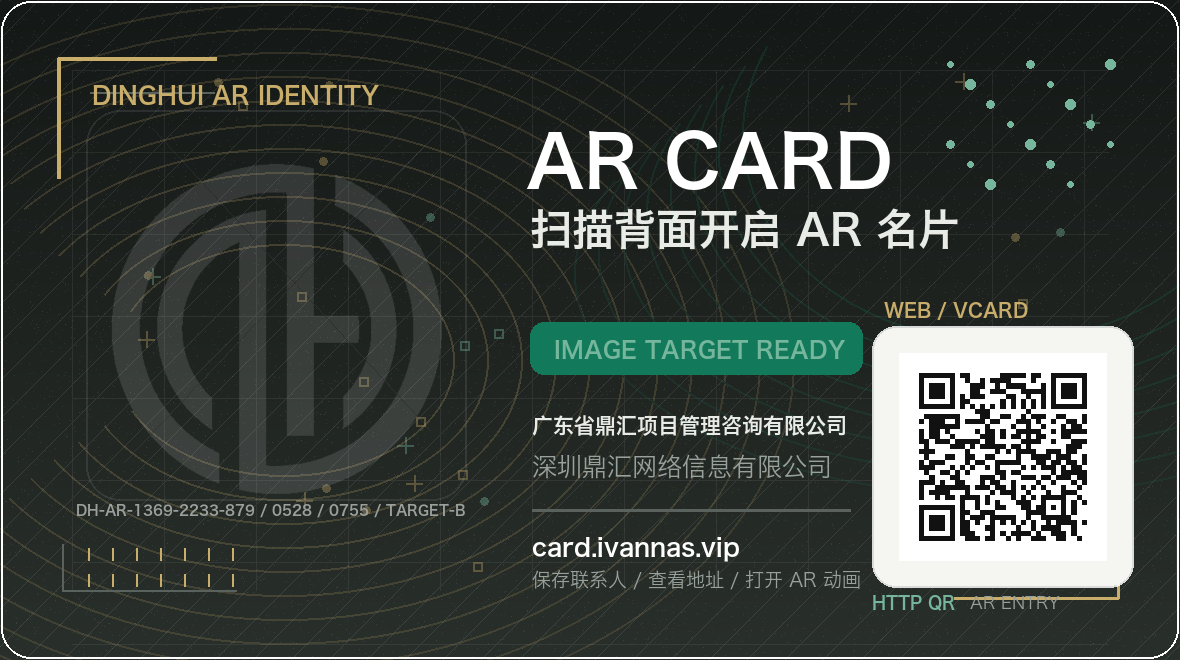
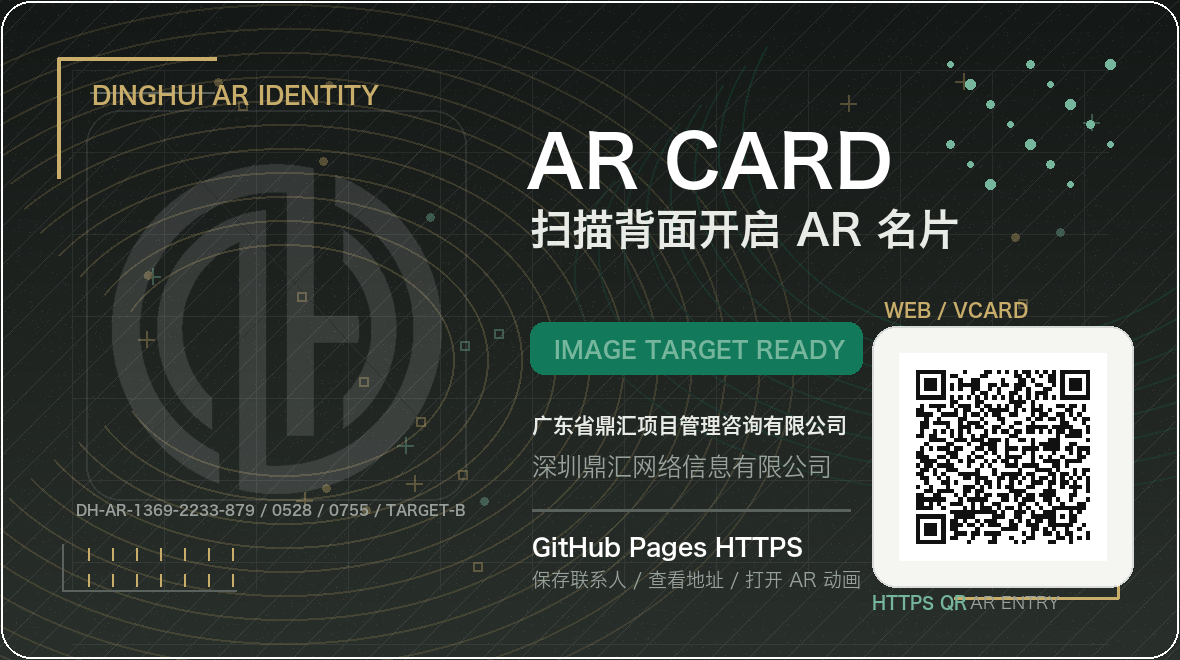
Update AR entry URL and back card preview

Changed region(s): [[0.7627, 0.5455, 0.9458, 0.8182], [0.4576, 0.7879, 0.7017, 0.8485], [0.7932, 0.8788, 0.8237, 0.9394]]

diff --git a/card/ar-live.html b/card/ar-live.html
@@ -374,7 +374,7 @@
       <a class="icon-link icon-mail" href="mailto:ivan.tan0528@gmail.com"><img src="ar-assets/icon-mail.png" alt="发送邮件"></a>
       <a class="icon-link icon-map" href="http://maps.apple.com/?q=%E9%99%86%E4%B8%B0%E5%B8%82%E4%B8%9C%E6%B5%B7%E8%A1%97%E9%81%93%E9%BE%99%E5%85%89%E6%9D%91%E5%B9%BF%E4%B8%9C%E7%9C%81%E9%BC%8E%E6%B1%87%E9%A1%B9%E7%9B%AE%E7%AE%A1%E7%90%86%E5%92%A8%E8%AF%A2%E6%9C%89%E9%99%90%E5%85%AC%E5%8F%B8"><img src="ar-assets/icon-map.png" alt="打开地址"></a>
       <a class="icon-link icon-save" href="contact.vcf"><img src="ar-assets/icon-save.png" alt="保存联系人"></a>
-      <div class="hint">card.ivannas.vip / AR BUSINESS CARD</div>
+      <div class="hint">GitHub Pages HTTPS / AR BUSINESS CARD</div>
     </section>
   </main>
 
